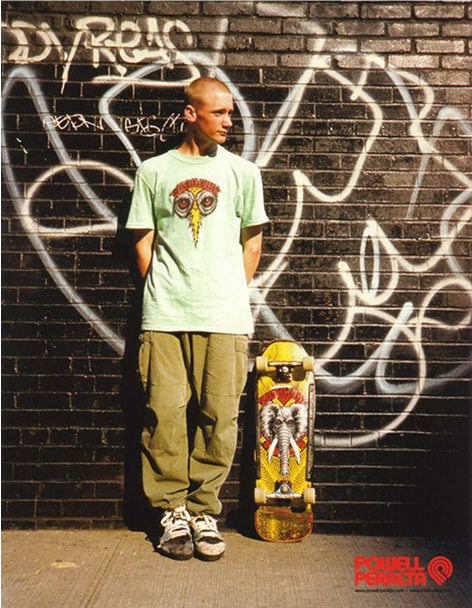
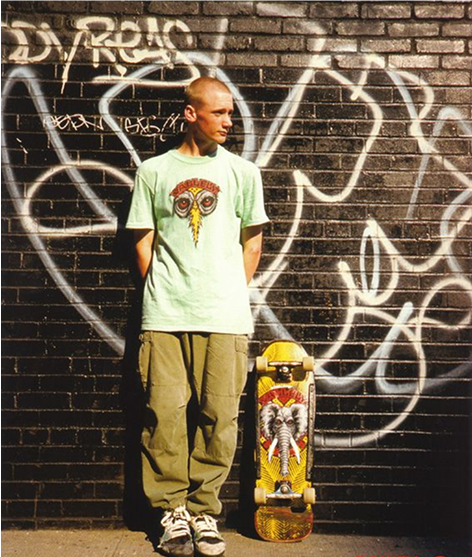
responsiv headerimg

diff --git a/styles.css b/styles.css
@@ -5,16 +5,17 @@
 body {
   margin: 0;
   width: 100%;
-  
+
   color: var(--primaryColor);
   background-color: var(--bgColor);
 }
 
 #hero {
+  margin-bottom: 4rem;
   display: flex;
   width: 100%;
-  height: 10rem;
-  align-items: center;
+
+  align-items: start;
   justify-content: center;
   gap: 1rem;
   padding-top: 2rem;
@@ -27,43 +28,46 @@ body {
 }
 #headerContainer {
   margin-bottom: 1rem;
+  width: 100%;
   position: relative;
   text-align: center;
 }
 #headerContainer > h1 {
-    width: 375px;
+  width: 100%;
   position: absolute;
-  top: 16rem; 
+  top: 16rem;
   left: 50%;
-  transform: translate(-50%); 
+  transform: translate(-50%);
   font-size: 2em;
   text-shadow: 1px 2px 1px black;
   color: var(--primaryColor);
 }
-#main{
-    display: flex;
-    justify-content: center;
+#main {
+  display: flex;
+  justify-content: center;
+  margin-bottom: 2rem;
 }
 
 #hero-image {
   display: inline-block;
 }
 
-#crop{
-    position: relative;
-    width: 9rem;
-    height: 10.6rem;
-    overflow: hidden;
-    border-radius: 7px;
+#crop {
+  position: relative;
+  width: 9rem;
+
+  overflow: hidden;
+  border-radius: 7px;
 }
 
-#hero-image img{
-    width: 100%;
-    display: block;
+#hero-image img {
+  width: 100%;
+  display: block;
 }
 
 #bentoContainer {
   margin-top: 5rem;
+  margin-bottom: 5rem;
   display: grid;
   grid-template-columns: 1fr 1fr;
 
@@ -81,17 +85,21 @@ body {
   object-fit: cover;
 }
 
-#accent-img{
-    position: absolute;
-    top: 60%;
-    left: 24%;
+#accent-img {
+  position: absolute;
+  top: 60%;
+  left: 24%;
 }
 
 #hero-text {
+  padding: 0;
+  margin: 0;
   width: 9rem;
 }
 
 #hero-text p {
+  padding: 0;
+  margin: 0;
   font-size: 0.7rem;
 }
 
@@ -146,11 +154,10 @@ button:hover {
 }
 footer {
   font-family: "Space Grotesk";
- 
 }
 
 .carousel {
-    max-width: 871px;
+  max-width: 871px;
   background-image: url(/imges/image\ 65.png);
   object-fit: fill;
   background-size: fill;
@@ -169,15 +176,19 @@ footer {
 }
 /* bild-karusell*/
 .carousel-gallery {
-    
   padding: 1rem;
   display: grid;
   grid-template-columns: repeat(5, 170px);
   grid-column-gap: 0.5rem;
-  overflow: scroll;
+  overflow-x: scroll;
+  scrollbar-width: thin;
+  scrollbar-color: var(--primaryColor) transparent;
+  
+
   height: 100%;
   scroll-snap-type: both mandatory;
 }
+
 
 .carousel-item {
   scroll-snap-align: center; /* centrerar bild */
@@ -232,30 +243,91 @@ footer {
 @media screen and (min-width: 376px) {
   
   #bentoContainer {
-  margin-top: 5rem;
-  display: grid;
-  max-width: 375px;
+    margin-top: 5rem;
+    display: grid;
+    max-width: 375px;
+  }
+  #crop {
+    width: 12rem;
+  }
 
-  
- }
+  #hero-text {
+    width: 10rem;
+  }
+
+  #hero-text p {
+    font-size: 0.9rem;
+  }
 }
 @media screen and (min-width: 667px) {
-    #bentoContainer {
-  grid-template-columns: 1fr 1fr 1fr;
-  max-width: 667px;
-  gap: 1rem;
-  grid-template-areas:
-    "box-1 box-3 box-4"
-    "box-5 box-6 box-7";
+   
+  #bentoContainer {
+    grid-template-columns: 1fr 1fr 1fr;
+    max-width: fit-content;
+    gap: 1rem;
+    grid-template-areas:
+      "box-1 box-3 box-4"
+      "box-5 box-6 box-7";
+  }
+  #headerImg {
   
+  height: 25rem;
   
 }
+  #crop {
+    width: 20rem;
+  }
+
+  #hero-text {
+    width: 12rem;
+  }
+
+  #hero-text p {
+    font-size: 1.1rem;
+    letter-spacing: 1px;
+  }
+  #hero {
+    align-items: start;
+  }
+  #headerContainer > h1 {
+    font-size: 3em;
+    top: 18rem;
+    
+  }
+  .carousel-gallery {
+  
+  grid-template-columns: repeat(5, 17rem);
+  grid-template-rows: 20rem;
 
 }
-@media screen and (min-width: 875px){
-    footer{
-        display: flex;
-        flex-direction: column;
-        align-items: center;
+.carousel {
+  max-width: 1000px;
+}
+.carousel-item img {
+  width:15rem;
+  height: 19rem;
+  
+}
+.bentoImg{
+        width:15rem;
+        height: 20rem;
     }
+
+}
+
+@media screen and (min-width: 875px) {
+    #headerContainer > h1 {
+    
+    top: 30rem;
+    
+  }
+  #headerImg {
+  height: 40rem;
+  
+}
+  footer {
+    display: flex;
+    flex-direction: column;
+    align-items: center;
+  }
 }
